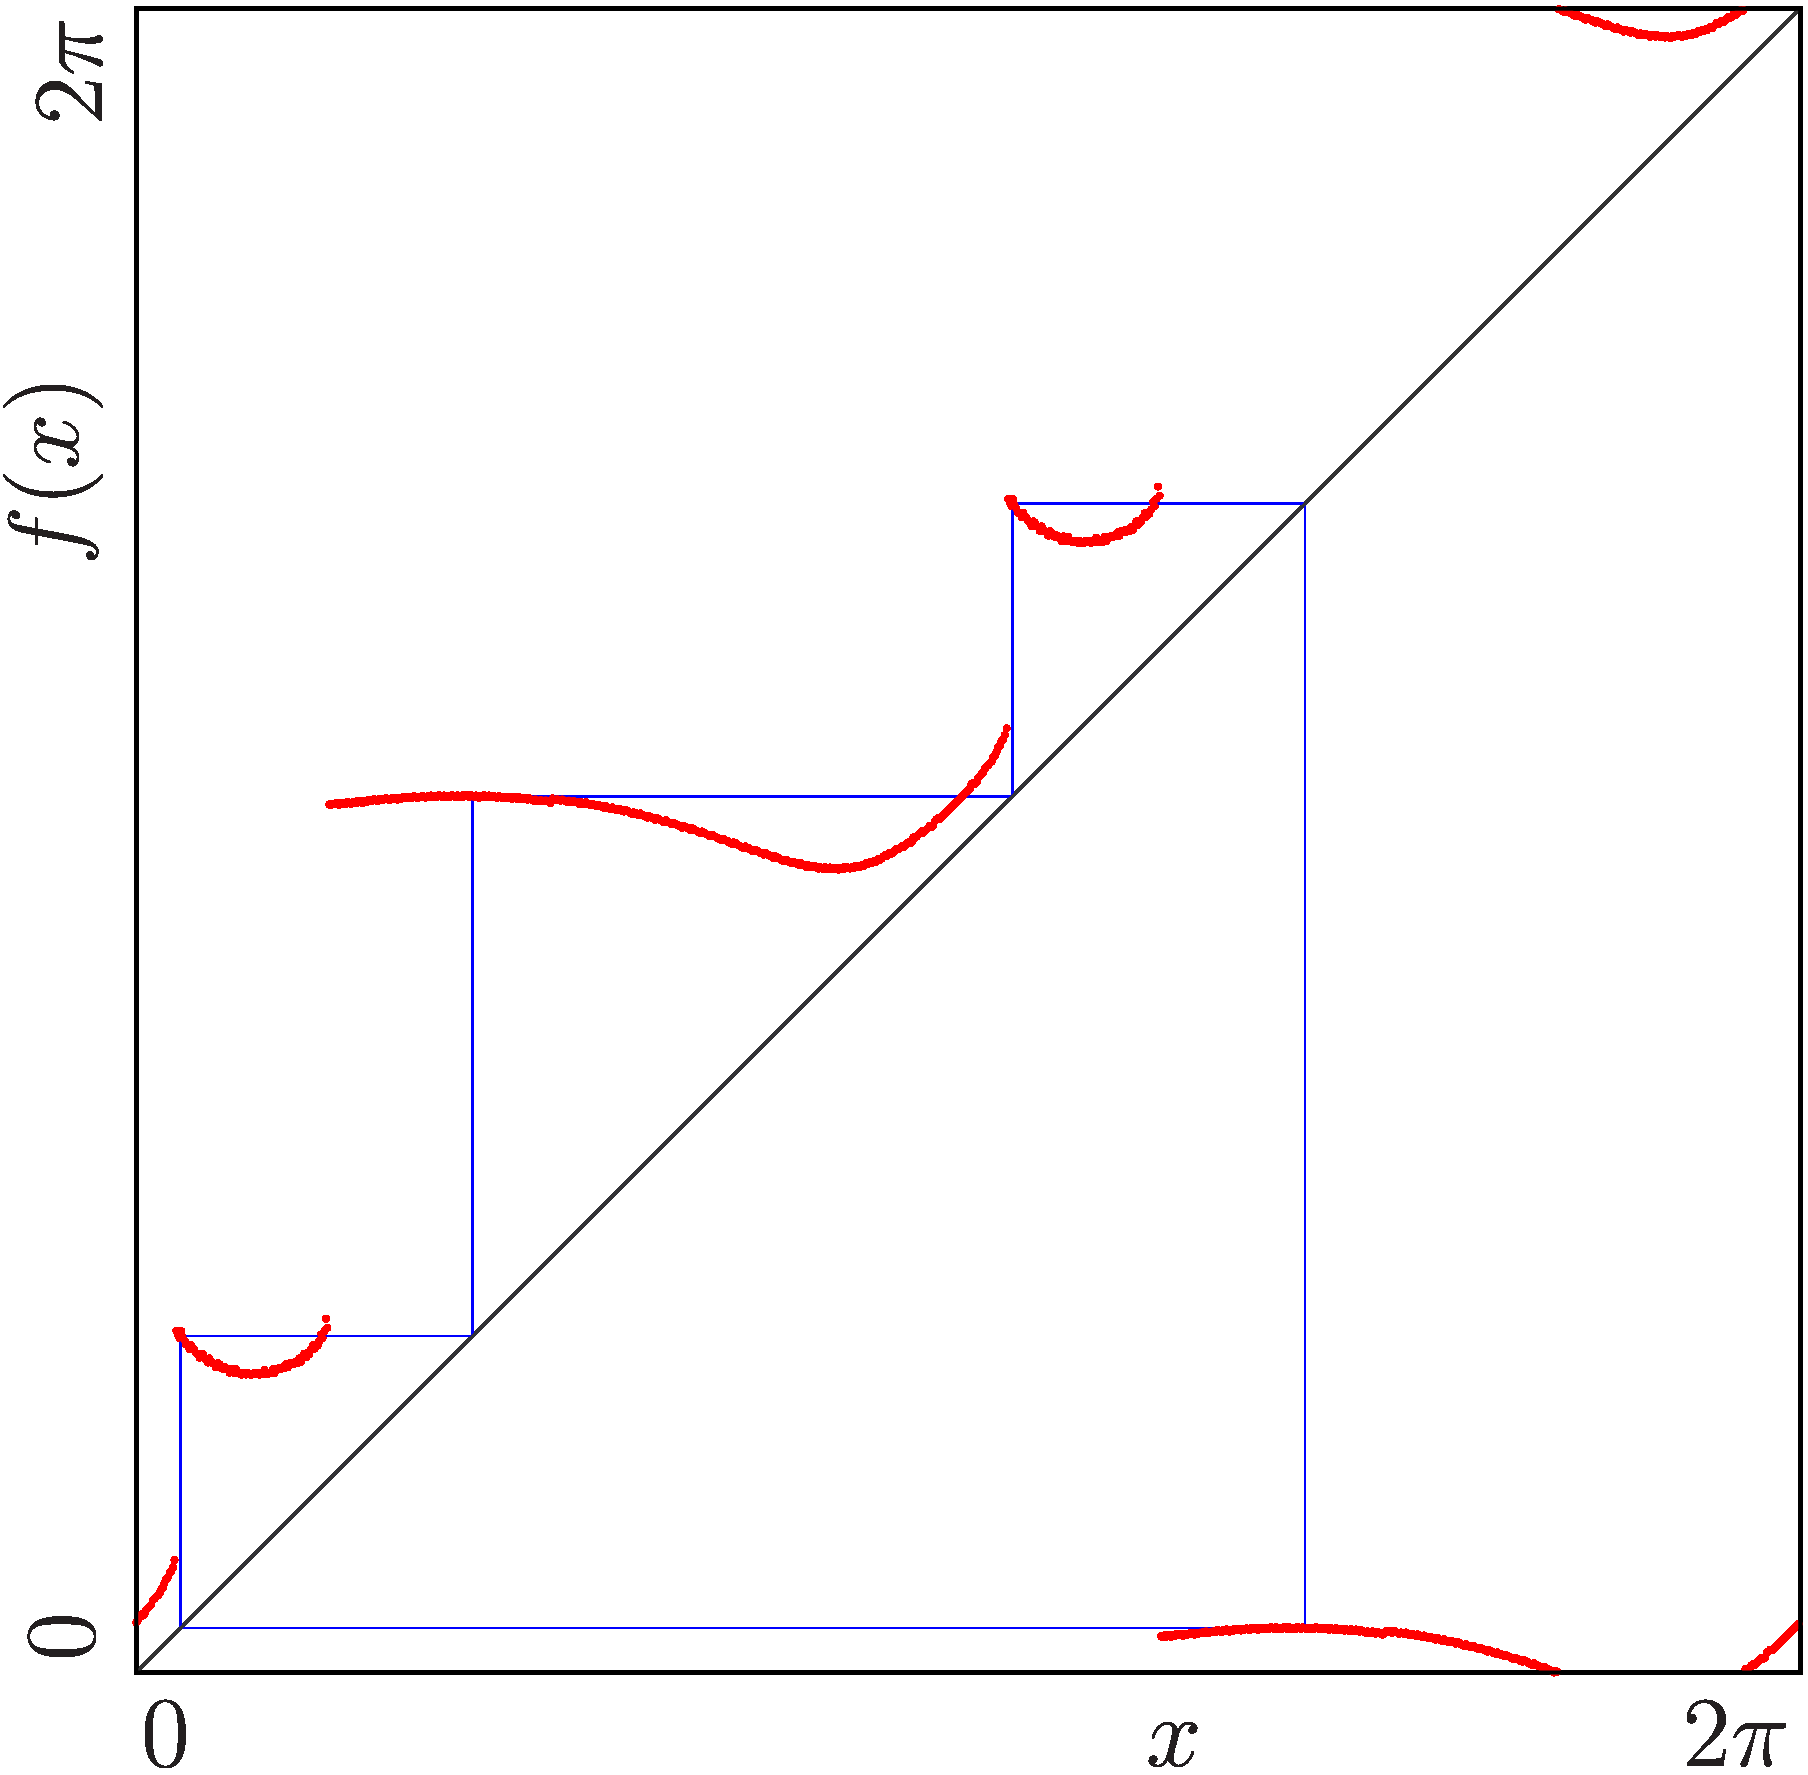
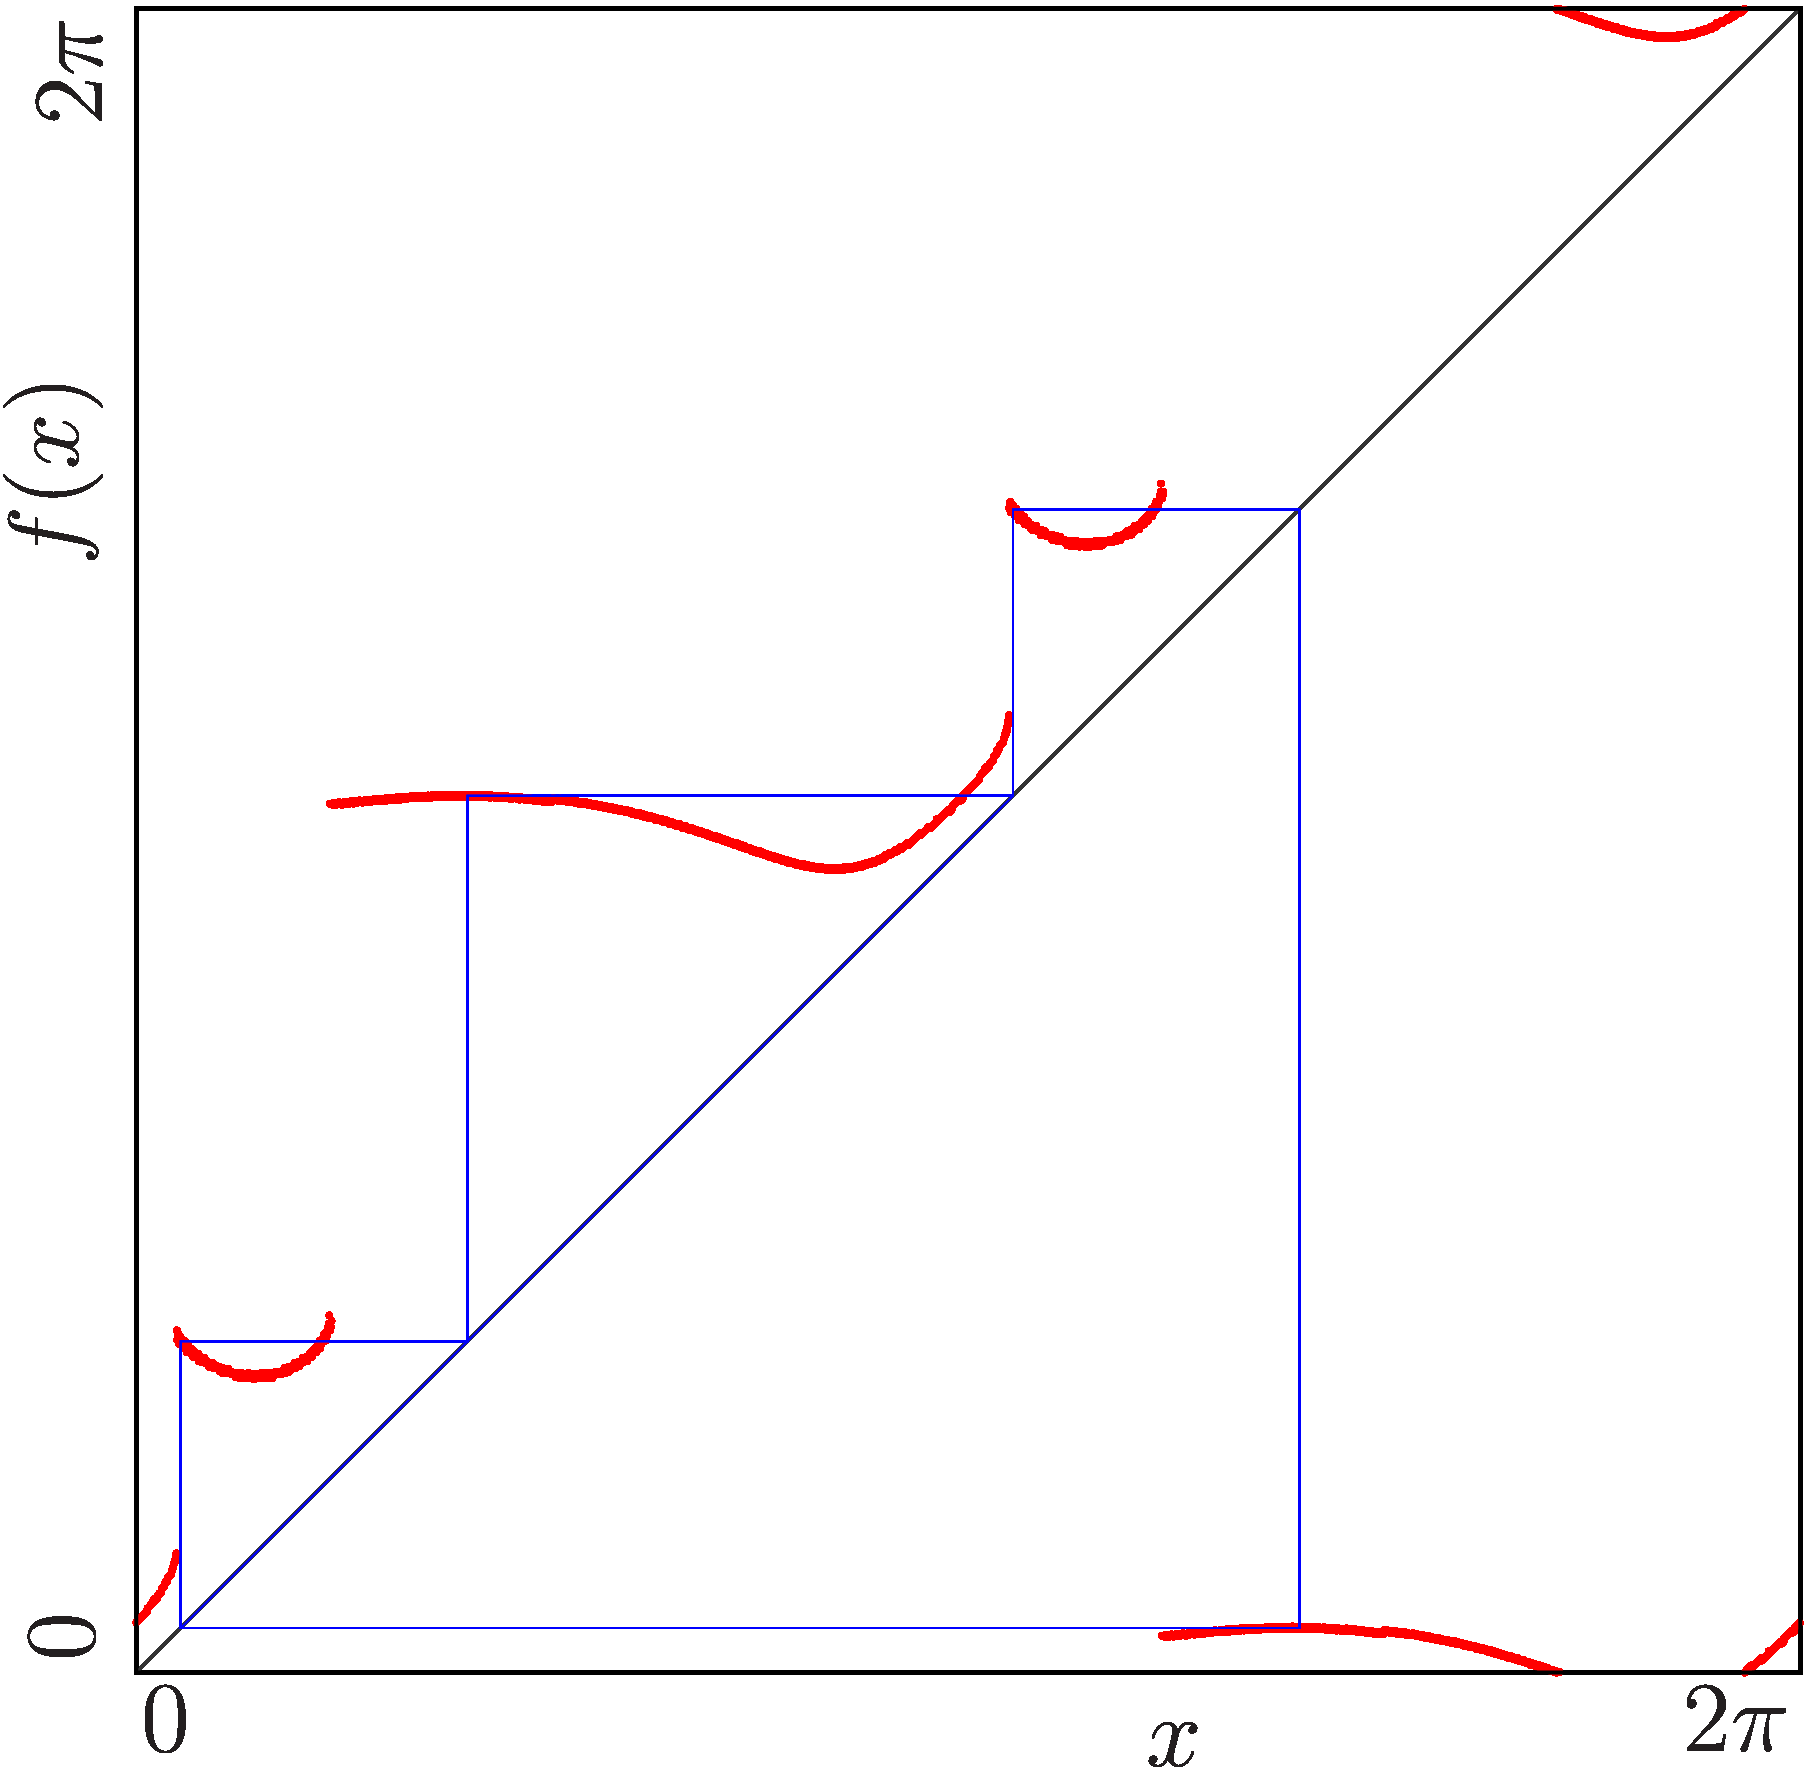
sucessfully generate cobweb diagram for function w python model

diff --git a/Simulation/execution/plotting.py b/Simulation/execution/plotting.py
@@ -64,36 +64,38 @@ def gnuplot_start(frame: frame.Frame) -> str:
     return res
 
 def dimensions(frame: frame.Frame):
-    if get_gnuplot_dimens_path(frame).exists():
-        return dedent(f'''
-            load '{get_gnuplot_dimens_path(frame)}'
-            ''')
+    if frame.diagram.L == None or frame.diagram.R == None \
+        or frame.diagram.D == None or frame.diagram.U == None:
 
-    if frame.diagram.type == DiagramType.PERIOD:
-        if not frame.diagram.scan:
-            raise CustomException('Diagram of type period should have at least one scan dimension')
+        if frame.diagram.type == DiagramType.PERIOD:
+            if not frame.diagram.scan:
+                raise CustomException('Diagram of type period should have at least one scan dimension')
 
-        L = frame.diagram.scan[0].parameter_specs[0].start
-        R = frame.diagram.scan[0].parameter_specs[0].stop
+            L = frame.diagram.scan[0].parameter_specs[0].start
+            R = frame.diagram.scan[0].parameter_specs[0].stop
 
-        if len(frame.diagram.scan) > 1:
-            D = frame.diagram.scan[1].parameter_specs[0].start
-            U = frame.diagram.scan[1].parameter_specs[0].stop
+            if len(frame.diagram.scan) > 1:
+                D = frame.diagram.scan[1].parameter_specs[0].start
+                U = frame.diagram.scan[1].parameter_specs[0].stop
+
+            else:
+                D = 0
+                U = frame.diagram.max_periods
+        
+        elif frame.diagram.type == DiagramType.COBWEB:
+            raise CustomException(f'You need to define L, R, D, and U in {frame.diagram.config_file_path} for diagram type cobweb')
 
         else:
-            D = 0
-            U = frame.diagram.max_periods
-    
-    elif frame.diagram.type == DiagramType.COBWEB:
-        raise CustomException(f'You need to define {get_gnuplot_dimens_path(frame)} for diagram type cobweb')
+            raise CustomException('Only diagram type period and cobweb figures supported!')
 
-    else:
-        raise CustomException('Only diagram type period and cobweb figures supported!')
+    L = frame.diagram.L
+    R = frame.diagram.R
+    D = frame.diagram.D
+    U = frame.diagram.U
     
     return dedent(f'''
         L = {L}
         R = {R}
-
         D = {D}
         U = {U}
         ''')
@@ -171,14 +173,19 @@ def plot_commands(frame: frame.Frame) -> str:
                 res += f'{name} = {frame.parameters[name]}\n'
 
             res += dedent(f'''
-                plot '{get_data_file_path(frame)}' w lines lw 1 lc rgb 'blue' notitle, \\
-                    f(x) w points ps 0.3 pt 7 lc rgb 'red' notitle
+                plot f(x) w points ps 0.3 pt 7 lc rgb 'red' notitle, \\
                 ''')
             
-            return res
-
         else:
-            raise CustomException('Cobwebs for models with python file not yet supported!')
+            res = dedent(f'''
+                plot '{get_gnuplot_model_data_path(frame)}' w points ps 0.3 pt 7 lc rgb 'red' notitle, \\
+                ''')
+        
+        res += f'''\\
+            x w lines lt 1 lw 1.5 lc rgb 'gray20' notitle, \\
+            '{get_data_file_path(frame)}' w lines lw 1 lc rgb 'blue' notitle
+            '''
+        return res
 
     else:
         raise CustomException(f'Not yet implemented for diagram type {frame.diagram.type}')
@@ -251,6 +258,12 @@ def get_gnuplot_extras_path(frame: frame.Frame) -> Path:
 
 def get_gnuplot_model_path(frame: frame.Frame) -> Path:
     return frame.diagram.path / 'model.plt'
+
+def get_gnuplot_model_generation_path(frame: frame.Frame) -> Path:
+    return frame.diagram.model.path / 'model.py'
+
+def get_gnuplot_model_data_path(frame: frame.Frame) -> Path:
+    return frame.path / 'model.dat'
 
 def get_diagram_fm_path(frame: frame.Frame) -> Path:
     return frame.diagram.path / 'result_fm'

diff --git a/Simulation/Models/99_Yunus/model.py b/Simulation/Models/99_Yunus/model.py
@@ -1,8 +1,7 @@
 #!/usr/bin/env python
 
 from math import cos, exp, floor, pi
-
-mu = 0.5
+import argparse
 
 R = 2.
 L = 4.2e-3
@@ -18,7 +17,7 @@ Lr = Lr1 / omega
 def mod(a, b):
     return a - floor(a/b) * b
 
-def F(xk, z, Kp, stepAlg, E0, hi, q, chi):
+def F(xk, z, Kp, stepAlg, E0, hi, q, chi, mu):
     if stepAlg == 1:
         return q*cos(xk+z)-Kp*chi-(q*cos(xk)-Kp*mu*chi)*exp(Lr*z)
     elif stepAlg == 2:
@@ -26,16 +25,16 @@ def F(xk, z, Kp, stepAlg, E0, hi, q, chi):
     elif stepAlg == 3:
         return Kp+(q*cos(xk)-Kp*chi-Kp)*exp(Lr*z)-q*cos(xk+z)+Kp*chi*mu
 
-def half(xk, Kp, stepAlg, E0, hi, q, chi):
+def half(xk, Kp, stepAlg, E0, hi, q, chi, mu):
     za = 0
 
     # Find 0.02 interval where 0point is
 
-    fb = F(xk, za, Kp, stepAlg, E0, hi, q, chi)
+    fb = F(xk, za, Kp, stepAlg, E0, hi, q, chi, mu)
     while True:
         fa = fb
         zb = za + 0.02
-        fb = F(xk, zb, Kp, stepAlg, E0, hi, q, chi)
+        fb = F(xk, zb, Kp, stepAlg, E0, hi, q, chi, mu)
 
         if fa * fb <= 0:
             break
@@ -46,7 +45,7 @@ def half(xk, Kp, stepAlg, E0, hi, q, chi):
 
     while True:
         z = (za + zb) / 2
-        fb = F(xk, z, Kp, stepAlg, E0, hi, q, chi)
+        fb = F(xk, z, Kp, stepAlg, E0, hi, q, chi, mu)
 
         if fa * fb < 0:
             zb = z
@@ -59,14 +58,14 @@ def half(xk, Kp, stepAlg, E0, hi, q, chi):
 
     return (za + zb) / 2
 
-def invert(xk, E0, hi, q, chi):
+def invert(xk, E0, hi, q, chi, mu):
     if cos(xk) > 0:
         Kp = 1
     else:
         Kp = -1
 
-    z_k = half(xk, Kp, 1, E0, hi, q, chi)
-    z_0 = half(xk, Kp, 2, E0, hi, q, chi)
+    z_k = half(xk, Kp, 1, E0, hi, q, chi, mu)
+    z_0 = half(xk, Kp, 2, E0, hi, q, chi, mu)
 
     if Kp == 1:
         if z_k < z_0:
@@ -83,19 +82,32 @@ def invert(xk, E0, hi, q, chi):
             Kp = 1
             xk = mod(xk + z_0, 2 * pi)
 
-    z_k = half(xk, Kp, 3, E0, hi, q, chi)
+    z_k = half(xk, Kp, 3, E0, hi, q, chi, mu)
     xk = mod(xk + z_k, 2 * pi)
 
     return xk
 
-def function(x, parameters):
-    if "E0" not in parameters or "hi" not in parameters:
-        raise Exception("Missing parameters")
-
-    E0 = parameters["E0"]
-    hi = parameters["hi"]
-
+def function(x: float, E0: float, hi: float, mu: float) -> float:
     q = R * Vref / bt / E0
     chi = R * hi / bt / E0
+    
+    return invert(x, E0, hi, q, chi, mu)
 
-    return invert(x, E0, hi, q, chi)
+if __name__ == "__main__":
+    parser = argparse.ArgumentParser()
+
+    parser.add_argument('--start', type=float, required=True)
+    parser.add_argument('--end', type=float, required=True)
+    parser.add_argument('--resolution', type=int, required=True)
+    
+    parser.add_argument('--E0', type=float, required=True)
+    parser.add_argument('--hi', type=float, required=True)
+    parser.add_argument('--mu', type=float, required=True)
+    
+    args = parser.parse_args()
+
+    for i in range(args.resolution):
+        x = args.start + ((args.end - args.start) / args.resolution) * i
+        y = function(x, args.E0, args.hi, args.mu)
+
+        print(f'{x} {y}')

diff --git a/Simulation/execution/frame.py b/Simulation/execution/frame.py
@@ -2,14 +2,17 @@
 
 from typing import List, Dict, Optional
 from pathlib import Path
+import subprocess
 
 from util.file import is_outdated
 from util.output import info
+from util.exceptions import CustomException
+from util.execution import execute_and_wait
 from configuration.models import Parameters, join_parameters
-from configuration.diagrams import Diagram
+from configuration.diagrams import Diagram, DiagramType
 from configuration.ant import generate_ant_config_file
 from execution.ant import execute_simulation
-from execution.plotting import generate_picture
+from execution.plotting import generate_picture, get_gnuplot_model_generation_path, get_gnuplot_model_data_path, get_gnuplot_model_path
 
 class Frame:
     diagram: Diagram
@@ -34,6 +37,43 @@ class Frame:
 
         generate_ant_config_file(self)
         execute_simulation(self)
+        generate_function_data(self)
         generate_picture(self)
 
+# Generating the function data for cobwebs
 
+def generate_function_data(frame: Frame):
+    if frame.diagram.type != DiagramType.COBWEB or get_gnuplot_model_path(frame).exists():
+        return
+
+    data_path = get_gnuplot_model_data_path(frame)
+    model_gen_path = get_gnuplot_model_generation_path(frame)
+    
+    if not model_gen_path.exists():
+        raise CustomException(f'{model_gen_path} missing')
+    
+    if not is_outdated(data_path, model_gen_path, frame.diagram.config_file_path, frame.diagram.model.config_file_path):
+        info(f'Skipping generation of {data_path}')
+        return
+
+    info(f'Generating {data_path}')
+
+    args = [
+        'python',
+        str(get_gnuplot_model_generation_path(frame)),
+    ]
+
+    for name in frame.parameters:
+        args += [f'--{name}', str(frame.parameters[name])]
+    
+    args += [
+        '--start', str(frame.diagram.L),
+        '--end', str(frame.diagram.R),
+        '--resolution', str(3000)
+    ]
+
+    process = execute_and_wait(args)
+    
+    with data_path.open('w') as data_file:
+        data_file.write(process.stdout.decode())
+    

diff --git a/Simulation/configuration/diagrams.py b/Simulation/configuration/diagrams.py
@@ -47,6 +47,10 @@ class Diagram(object):
     animation: Optional[ParameterRange]     # only one dimension possible (t)
     
     max_periods: int = 128
+    L: Optional[float] = None
+    R: Optional[float] = None
+    D: Optional[float] = None
+    U: Optional[float] = None
     
     def __init__(self, diagram_path: Path, model: Model, options: Options):
         self.model = model
@@ -191,3 +195,15 @@ def load_diagram_from_dict(
     
     if 'max_period' in config:
         obj.max_periods = config['max_period']
+    
+    if 'L' in config:
+        obj.L = config['L']
+ 
+    if 'R' in config:
+        obj.R = config['R']
+ 
+    if 'D' in config:
+        obj.D = config['D']
+ 
+    if 'U' in config:
+        obj.U = config['U']

diff --git a/Simulation/util/execution.py b/Simulation/util/execution.py
@@ -5,7 +5,7 @@ from pathlib import Path
 import subprocess
 from util.exceptions import CustomException
 
-def execute_and_wait(args: List[str], cwd: Optional[Path] = None):
+def execute_and_wait(args: List[str], cwd: Optional[Path] = None) -> subprocess.Popen:
     if not cwd:
         cwd = Path.cwd()
 
@@ -22,3 +22,5 @@ def execute_and_wait(args: List[str], cwd: Optional[Path] = None):
             print(process.stdout.decode())
 
         raise CustomException(f'Problem while executing {args[0]}')
+
+    return process
